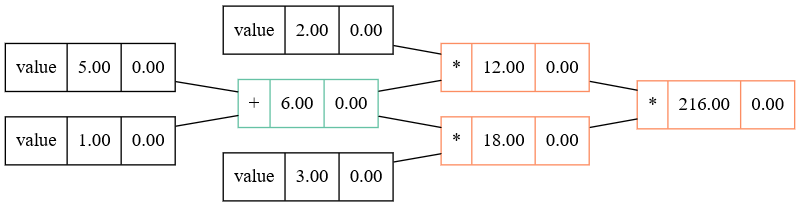
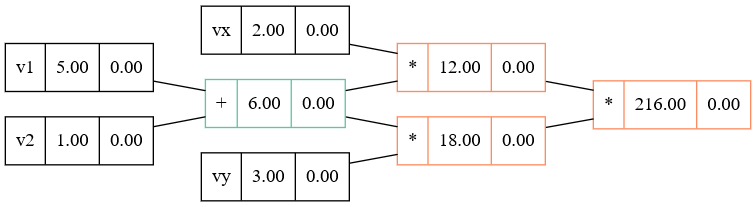
Added label as an option, this will improve the graph plot

Changed region(s): [[0.0, 0.0, 1.0, 0.9855], [0.2738, 0.6087, 0.3042, 0.6377], [0.2434, 0.9565, 0.2738, 0.9855]]

diff --git a/src/engine.rs b/src/engine.rs
@@ -113,6 +113,20 @@ impl Value {
             label: None
         })))
     }
+
+    pub fn from_with_label(value: f64, children: Vec<Value>, op: Op, s: Option<String>) -> Value {
+        let id = VAL_CNT.fetch_add(1, std::sync::atomic::Ordering::SeqCst); 
+        Value(Rc::new(RefCell::new(ValueData {
+            value: value,
+            children: children,
+            gradient: 0.0,
+            op: op,
+            visited: false,
+            id ,
+            label: s
+        })))
+    }
+
     
     
     pub fn inner(&self) -> Ref<ValueData> {       
@@ -148,6 +162,10 @@ impl Value {
 
     fn visited(&self) -> bool {
         self.0.borrow().visited
+    }
+
+    pub fn label(&self) -> Option<String> {
+        self.0.borrow().label.clone()
     }
 
     pub fn value(&self) -> f64 {
@@ -313,7 +331,7 @@ impl Value {
             let mut s = format!(
                 "{} [label=\"{{{} | {:.2} | {:.2}}}\", color={}];\n",
                 id,
-                opstr,
+                match node.label() { Some(l) =>  l,  None => opstr},                
                 node.value(),
                 node.gradient(),               
                 color,
@@ -644,15 +662,15 @@ mod tests {
 
     #[test]
     fn topological_order() {
-        let v1 = Value::from(5.0,vec![],Op::None);
-        let v2 = Value::from(1.0,vec![],Op::None);
+        let v1 = Value::from_with_label(5.0,vec![],Op::None,Some("v1".to_owned()));
+        let v2 = Value::from_with_label(1.0,vec![],Op::None,Some("v2".to_owned()));
         let v3 = v1 + v2; // 6
         //let v4 = 2.0 * v3.clone(); // 12   need to wrap values in Value()!!!!
         //let v5 = 3.0 * v3.clone(); // 18
         //let v4 = v3.clone() * 2.0; // 12
         //let v5 = v3.clone() * 3.0; // 18
-        let v4 = v3.clone() * Value::from(2.0,vec![],Op::None); // 12
-        let v5 = v3.clone() * Value::from(3.0,vec![],Op::None); // 18
+        let v4 = v3.clone() * Value::from_with_label(2.0,vec![],Op::None,Some("vx".to_owned())); // 12
+        let v5 = v3.clone() * Value::from_with_label(3.0,vec![],Op::None,Some("vy".to_owned())); // 18
         let v6 = v4 * v5; // 216
 
         //v6.backward();
@@ -689,9 +707,9 @@ mod tests {
     #[test]
     fn abc_backpropagation2()
     {
-        let a = Value::from(2.0, vec![], Op::None);
-        let b = - Value::from(3.0, vec![], Op::None);
-        let c = Value::from(10.0, vec![], Op::None);
+        let a = Value::from_with_label(2.0, vec![], Op::None,Some("a".to_owned()));
+        let b = - Value::from_with_label(3.0, vec![], Op::None,Some("b".to_owned()));
+        let c = Value::from_with_label(10.0, vec![], Op::None,Some("c".to_owned()));
         let d = a.clone() * b.clone() + c.clone();
 
         d.backward();
@@ -706,9 +724,9 @@ mod tests {
     #[test]
     fn abc_backpropagation3()
     {
-        let a = Value::from(2.0, vec![], Op::None);
-        let b = Value::from(- 3.0, vec![], Op::None);
-        let c = Value::from(10.0, vec![], Op::None);
+        let a = Value::from_with_label(2.0, vec![], Op::None,Some("a".to_owned()));
+        let b = Value::from_with_label(- 3.0, vec![], Op::None,Some("b".to_owned()));
+        let c = Value::from_with_label(10.0, vec![], Op::None,Some("c".to_owned()));
         let d = a.clone() * b.clone() + c.clone();
 
         d.backward();
@@ -723,9 +741,9 @@ mod tests {
     #[test]
     fn abc_backpropagation4()
     {
-        let a = Value::from(2.0, vec![], Op::None);
-        let b = Value::from(3.0, vec![], Op::None);
-        let c = Value::from(10.0, vec![], Op::None);
+        let a = Value::from_with_label(2.0, vec![], Op::None,Some("a".to_owned()));
+        let b = Value::from_with_label(3.0, vec![], Op::None,Some("b".to_owned()));
+        let c = Value::from_with_label(10.0, vec![], Op::None,Some("c".to_owned()));
         let d = a.clone() * b.clone() - c.clone();
 
         d.backward();
@@ -740,9 +758,9 @@ mod tests {
     #[test]
     fn abc_backpropagation5()
     {
-        let a = Value::from(2.0, vec![], Op::None);
-        let b = Value::from(-3.0, vec![], Op::None);
-        let c = Value::from(10.0, vec![], Op::None);
+        let a = Value::from_with_label(2.0, vec![], Op::None,Some("a".to_owned()));
+        let b = Value::from_with_label(-3.0, vec![], Op::None,Some("b".to_owned()));
+        let c = Value::from_with_label(10.0, vec![], Op::None,Some("c".to_owned()));
         let d = a.clone() / b.clone() + c.clone();
 
 

diff --git a/src/main.rs b/src/main.rs
@@ -18,22 +18,22 @@ fn main() {
     84 [label="{* | 216.00 | 0.00}", color=2];
     81 [label="{* | 12.00 | 0.00}", color=2];
     79 [label="{+ | 6.00 | 0.00}", color=1];
-    77 [label="{value | 5.00 | 0.00}", color=0];
+    77 [label="{v1 | 5.00 | 0.00}", color=0];
     79 -- 77;
-    78 [label="{value | 1.00 | 0.00}", color=0];
+    78 [label="{v2 | 1.00 | 0.00}", color=0];
     79 -- 78;
     81 -- 79;
-    80 [label="{value | 2.00 | 0.00}", color=0];
+    80 [label="{vx | 2.00 | 0.00}", color=0];
     81 -- 80;
     84 -- 81;
     83 [label="{* | 18.00 | 0.00}", color=2];
     79 [label="{+ | 6.00 | 0.00}", color=1];
-    77 [label="{value | 5.00 | 0.00}", color=0];
+    77 [label="{v1 | 5.00 | 0.00}", color=0];
     79 -- 77;
-    78 [label="{value | 1.00 | 0.00}", color=0];
+    78 [label="{v2 | 1.00 | 0.00}", color=0];
     79 -- 78;
     83 -- 79;
-    82 [label="{value | 3.00 | 0.00}", color=0];
+    82 [label="{vy | 3.00 | 0.00}", color=0];
     83 -- 82;
     84 -- 83;
     } 
